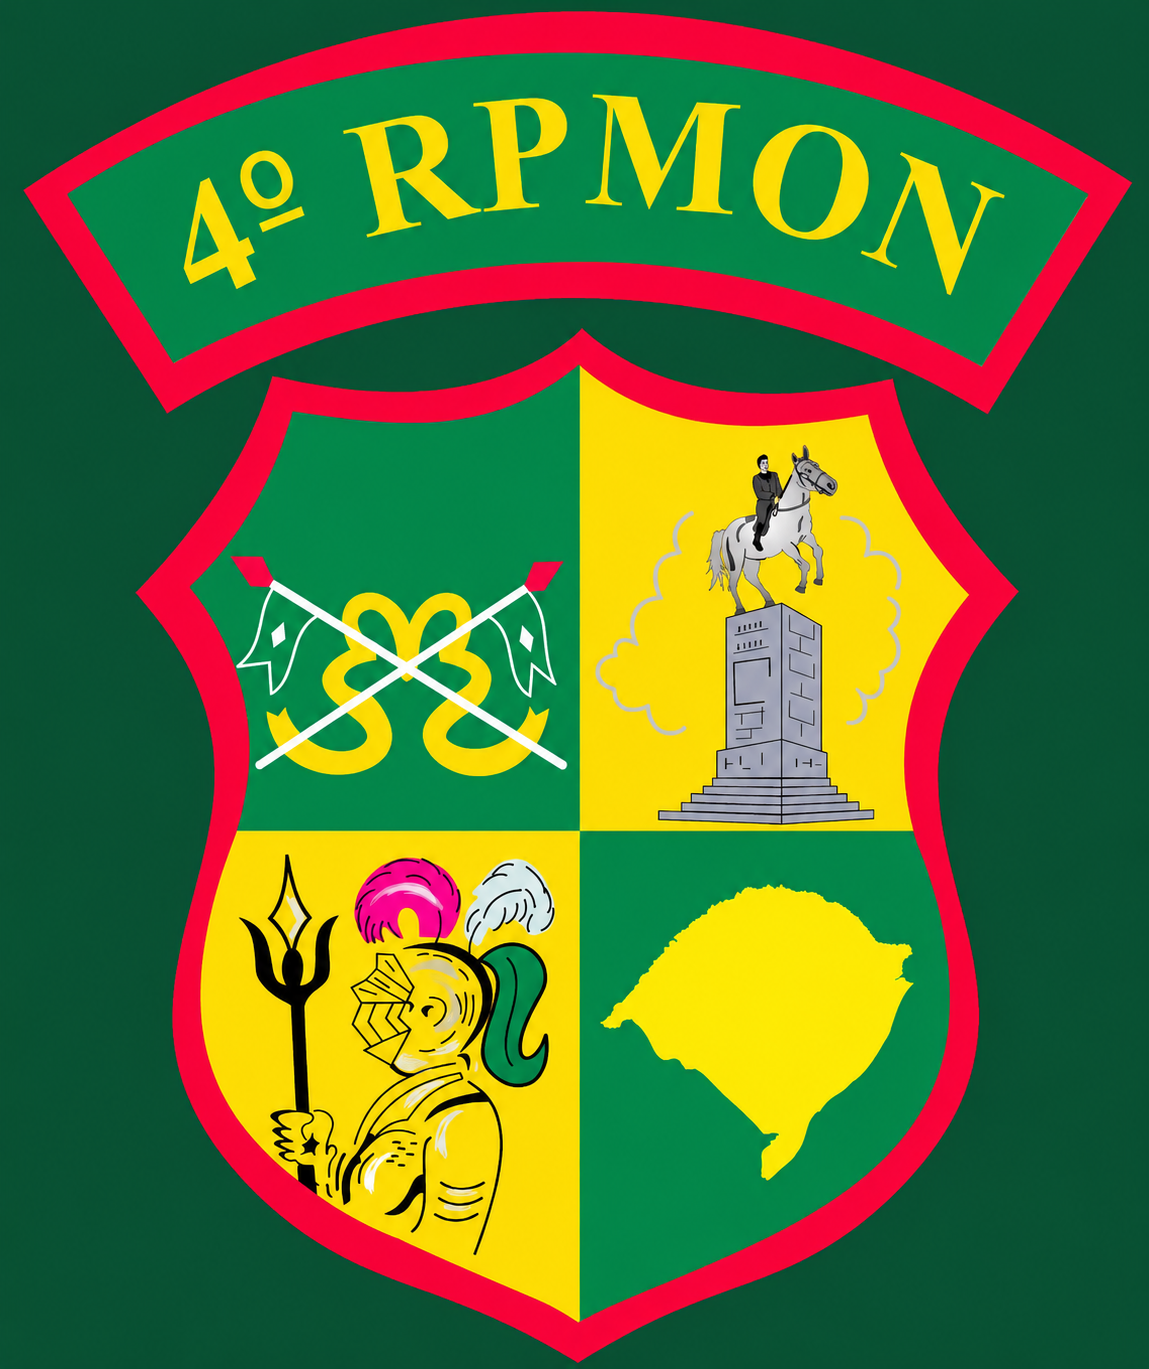
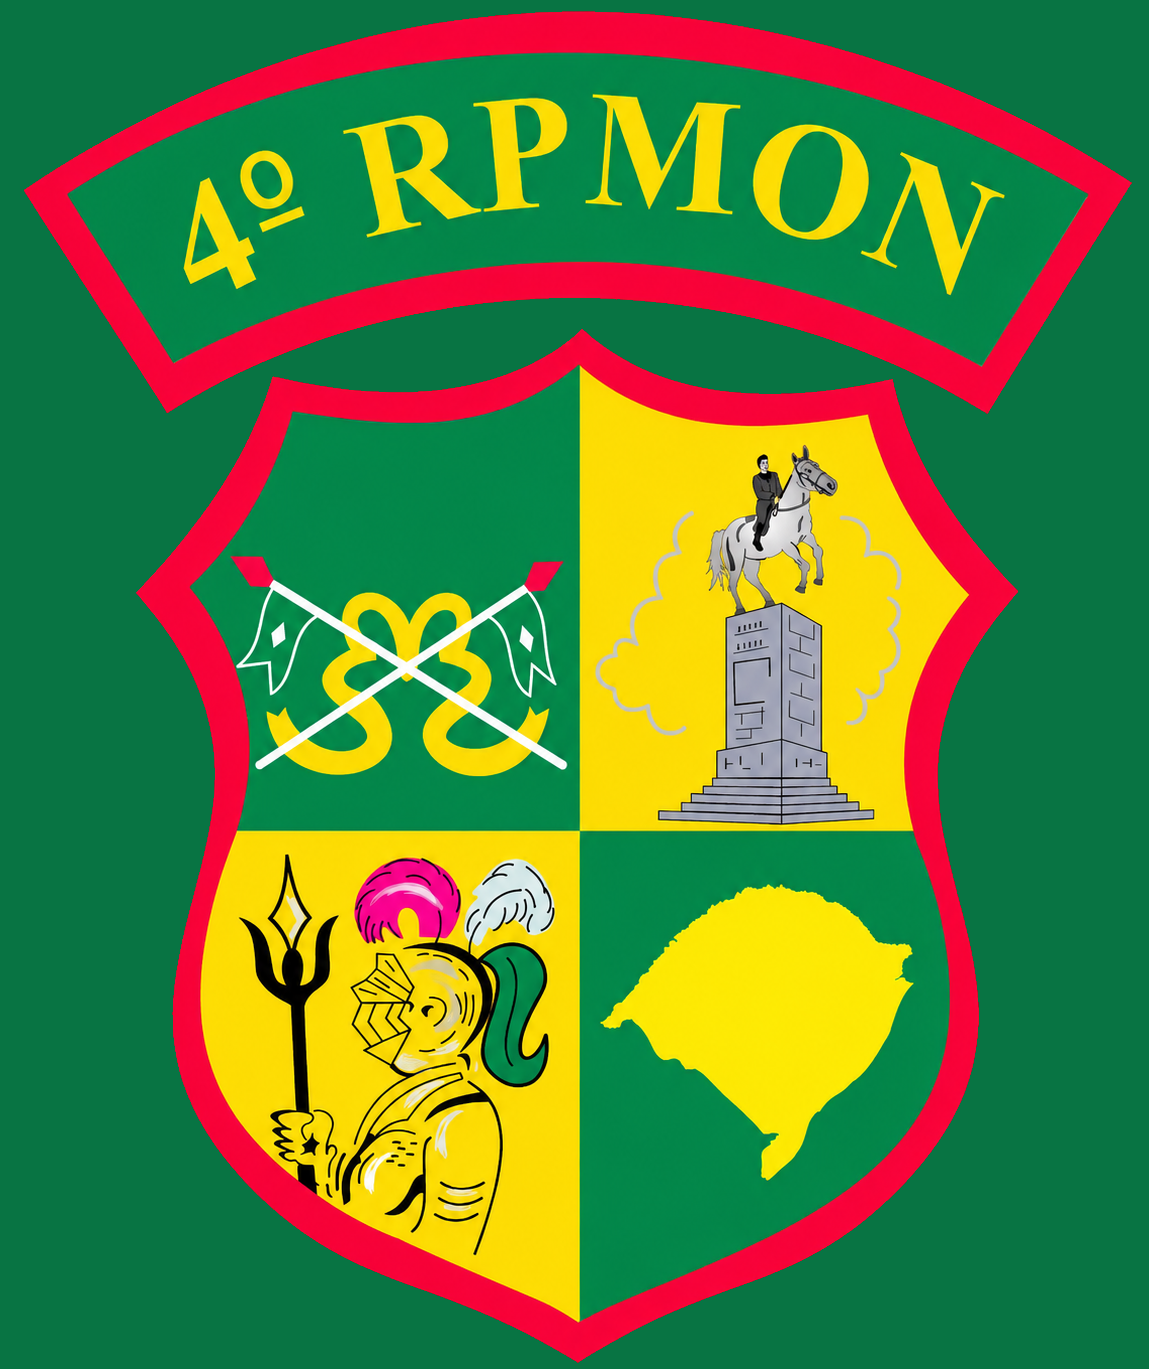
fix: uniformiza fundo do brasão em #087443 (#20)
Aplica cor sólida #087443 ao fundo externo do brasão e atualiza o cache do PWA.

diff --git a/index.html b/index.html
@@ -30,7 +30,7 @@
 <header>
   <div class="container cabecalho">
     <div class="identidade">
-      <div class="brasao"><img src="image.png?v=20260814-1" alt="Brasão do 4º RPMon"></div>
+      <div class="brasao"><img src="image.png?v=20260814-2" alt="Brasão do 4º RPMon"></div>
       <div>
         <h1>Programação Operacional 4ºRPMon</h1>
         <p class="subtitulo" id="subtituloAgenda">Agenda de eventos e atividades — 2026</p>

diff --git a/admin.html b/admin.html
@@ -17,7 +17,7 @@
 <header>
 <div class="container cabecalho">
 <div class="identidade">
-<div class="brasao"><img src="image.png?v=20260814-1" alt="Brasão do 4º RPMon"></div>
+<div class="brasao"><img src="image.png?v=20260814-2" alt="Brasão do 4º RPMon"></div>
 <div>
 <h1>Programação Operacional 4ºRPMon</h1>
 <p class="subtitulo" id="subtituloAgenda">Painel de gerenciamento — P3 · 2026</p>

diff --git a/sw.js b/sw.js
@@ -1,4 +1,4 @@
-const CACHE_NAME = "agenda-4rpmon-v12";
+const CACHE_NAME = "agenda-4rpmon-v13";
 const APP_SHELL = [
   "./",
   "./index.html",
@@ -7,7 +7,7 @@ const APP_SHELL = [
   "./app.js?v=20260812-2",
   "./firebase-config.js",
   "./manifest.webmanifest",
-  "./image.png?v=20260814-1",
+  "./image.png?v=20260814-2",
   "./icon-192.png",
   "./icon-512.png"
 ];
